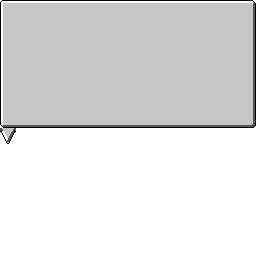
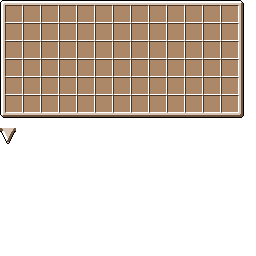
Worked on the content tip renderer and the associated graphic.

diff --git a/src/minecraft/ml/boxes/client/ContentTipHandler.java b/src/minecraft/ml/boxes/client/ContentTipHandler.java
@@ -2,8 +2,10 @@ package ml.boxes.client;
 
 import java.util.EnumSet;
 
+import ml.boxes.BoxData;
 import ml.boxes.Boxes;
 import ml.boxes.Lib;
+import ml.boxes.Lib.XYPair;
 import ml.boxes.item.ItemBox;
 import net.minecraft.client.Minecraft;
 import net.minecraft.client.gui.ScaledResolution;
@@ -22,7 +24,7 @@ import cpw.mods.fml.relauncher.SideOnly;
 @SideOnly(Side.CLIENT)
 public class ContentTipHandler implements ITickHandler {
 	
-	public ContentTip currentTip;
+	public static ContentTip currentTip;
 	
 	@Override
 	public void tickStart(EnumSet<TickType> type, Object... tickData) {
@@ -33,11 +35,14 @@ public class ContentTipHandler implements ITickHandler {
 	@Override
 	public void tickEnd(EnumSet<TickType> type, Object... tickData) {
 		if (type.contains(TickType.RENDER)){
-			renderContentTip();
+			renderContentTip((Float)tickData[0]);
+		}else if (type.contains(TickType.CLIENT)){
+			updateCurrentTip();
 		}
 	}
 	
-	private void renderContentTip(){
+	// Do calculations for the tip
+	private void updateCurrentTip(){
 		Minecraft mc = FMLClientHandler.instance().getClient();
 		if (mc.currentScreen instanceof GuiContainer){
 			GuiContainer asGuiContainer = (GuiContainer)mc.currentScreen;
@@ -50,37 +55,53 @@ public class ContentTipHandler implements ITickHandler {
             int var15 = var13.getScaledHeight();
             int adjMouseX = Mouse.getX() * var14 / mc.displayWidth;
             int adjMouseY = var15 - Mouse.getY() * var15 / mc.displayHeight - 1;
-            
+
             int guiLeft = (asGuiContainer.width - guiXSize) / 2;
             int guiTop = (asGuiContainer.height - guiYSize) / 2;
-            
+
             if (currentTip == null || !currentTip.StillValid(adjMouseX, adjMouseY)){
             	currentTip = null;
-                for (Object slt : asGuiContainer.inventorySlots.inventorySlots){
-                	Slot asSlot = (Slot)slt;
-                	if (!asSlot.getHasStack() ||
-                			!(asSlot.getStack().getItem() instanceof ItemBox) ||
-                			!Lib.pointInRect(adjMouseX-guiLeft, adjMouseY-guiTop, asSlot.xDisplayPosition, asSlot.yDisplayPosition, 16, 16) || 
-                			(asGuiContainer instanceof GuiBox && false) || // TODO Make sure the tip will not be for the open box
-                			(Boxes.shiftForTip && !asGuiContainer.isShiftKeyDown())
-                			)
-                		continue;
-                	// TODO Create a new ContentTip
-                }
+            	for (Object slt : asGuiContainer.inventorySlots.inventorySlots){
+            		Slot asSlot = (Slot)slt;
+            		if (!asSlot.getHasStack() ||
+            				!(asSlot.getStack().getItem() instanceof ItemBox) ||
+            				!Lib.pointInRect(adjMouseX-guiLeft, adjMouseY-guiTop, asSlot.xDisplayPosition, asSlot.yDisplayPosition, 16, 16) || 
+            				(asGuiContainer instanceof GuiBox && false) || // TODO Make sure the tip will not be for the open box
+            				(Boxes.shiftForTip && !asGuiContainer.isShiftKeyDown())
+            				)
+            			continue;
+            		currentTip = new ContentTip(asGuiContainer, asSlot, guiXSize, guiYSize, guiTop, guiLeft);
+            	}
             }
-            if (currentTip!= null)
-            	currentTip.tick(adjMouseX, adjMouseY);
+            if (currentTip != null)
+            	currentTip.tick(mc, adjMouseX, adjMouseY);
 		}
 	}
+	
+	//Render the tip
+	private void renderContentTip(float tickTime){
+		Minecraft mc = FMLClientHandler.instance().getClient();
+		if (mc.currentScreen instanceof GuiContainer){
+			
+			ScaledResolution var13 = new ScaledResolution(mc.gameSettings, mc.displayWidth, mc.displayHeight);
+            int var14 = var13.getScaledWidth();
+            int var15 = var13.getScaledHeight();
+            int adjMouseX = Mouse.getX() * var14 / mc.displayWidth;
+            int adjMouseY = var15 - Mouse.getY() * var15 / mc.displayHeight - 1;
 
+            if (currentTip!= null)
+            	currentTip.doRender(mc, adjMouseX, adjMouseY, tickTime);
+		}
+	}
+	
 	@Override
 	public EnumSet<TickType> ticks() {
-		return EnumSet.of(TickType.RENDER);
+		return EnumSet.of(TickType.RENDER, TickType.CLIENT);
 	}
 
 	@Override
 	public String getLabel() {
-		return "BoxesContentTipRenderer";
+		return "Boxes";
 	}
 
 }

diff --git a/src/minecraft/ml/boxes/client/ContentTip.java b/src/minecraft/ml/boxes/client/ContentTip.java
@@ -1,36 +1,115 @@
 package ml.boxes.client;
 
+import org.lwjgl.opengl.GL11;
+
+import ml.boxes.BoxData;
 import ml.boxes.Boxes;
 import ml.boxes.Lib;
+import ml.boxes.Lib.XYPair;
+import ml.boxes.item.ItemBox;
+import net.minecraft.client.Minecraft;
 import net.minecraft.client.gui.Gui;
 import net.minecraft.client.gui.inventory.GuiContainer;
+import net.minecraft.client.renderer.RenderEngine;
+import net.minecraft.client.renderer.entity.RenderItem;
 import net.minecraft.inventory.Slot;
+import net.minecraft.item.ItemStack;
 import cpw.mods.fml.relauncher.Side;
 import cpw.mods.fml.relauncher.SideOnly;
 
 @SideOnly(Side.CLIENT)
 public class ContentTip extends Gui {
+	
+	public RenderItem itemRenderer = new RenderItem();
+	
+	public final GuiContainer gui;
+	public final Slot slot;
+	public final BoxData box;
+	public final int guiWidth;
+	public final int guiHeight;
+	public final int guiTop;
+	public final int guiLeft;
 
-	public Slot slot;
+	private XYPair position = new XYPair(0, 0);
+	private XYPair currentSize = new XYPair(0, 0);
+	private XYPair gridSize = new XYPair(0,0);
+	private int slotSize = 16;
 	
-	public GuiContainer gui;
-	public int guiWidth;
-	public int guiHeight;
-	public int guiTop;
-	public int guiLeft;
+	public ContentTip(GuiContainer gui, Slot slot, int gWidth, int gHeight, int gTop, int gLeft) {
+		this.gui = gui;
+		this.slot = slot;
+		this.box = ItemBox.getDataFromIS(slot.getStack());
+		this.guiWidth = gWidth;
+		this.guiHeight = gHeight;
+		this.guiTop = gTop;
+		this.guiLeft = gLeft;
+	}
 	
-	private void render(){
+	private void drawStackAt(RenderEngine re, int x, int y, ItemStack is){
+		GL11.glEnable(GL11.GL_DEPTH_TEST);
+        itemRenderer.renderItemAndEffectIntoGUI(gui.fontRenderer, re, is, x, y);
+        itemRenderer.renderItemOverlayIntoGUI(gui.fontRenderer, re, is, x, y);
+	}
+	
+	private int getSlotAt(int x, int y){
+		int ax = x - position.X-5;
+		int ay = y-position.Y-5;
+		return (int)Math.floor(ax/18) + (int)Math.floor(ay/18)*gridSize.X;
+	}
+	
+	public void doRender(Minecraft mc, int mX, int mY, float tickTime){
+		RenderEngine re = mc.renderEngine;
+		
+		re.bindTexture(re.getTexture("/ml/boxes/gfx/contentTip.png"));
+		drawTexturedModalRect(position.X, position.Y, 0, 0, currentSize.X-5, currentSize.Y-5);
+		drawTexturedModalRect(position.X+5, position.Y, 128-(currentSize.X-5), 0, currentSize.X-5, currentSize.Y-5);
+		drawTexturedModalRect(position.X+5, position.Y+5, 128-(currentSize.X-5), 64-(currentSize.Y-5), currentSize.X-5, currentSize.Y-5);
+		drawTexturedModalRect(position.X, position.Y+5, 0, 64-(currentSize.X-5), currentSize.X-5, currentSize.Y-5);
+		
+//		for (int i=0; i<elementCount; i++){
+//			
+//		}
+	}
+	
+	public void tick(Minecraft mc, int mX, int mY){
+		int elementCount = interactable(mX, mY) ? box.getSizeInventory() : box.getContainedItemStacks().size();
+		XYPair targetGrid = Lib.determineBestGrid(elementCount);
+		
+		int targX = targetGrid.X*(slotSize+2) +10;
+		int targY = targetGrid.Y*(slotSize+2) +10;
+		
+		if (targX > currentSize.X){
+			currentSize.X += 4;
+			if (targX < currentSize.X)
+				currentSize.X = targX;
+		} else if (targX < currentSize.X) {
+			currentSize.X -= 4;
+			if (targX > currentSize.X)
+				currentSize.X = targX;
+		}
+		
+		if (targY > currentSize.Y){
+			currentSize.Y += 4;
+			if (targY < currentSize.Y)
+				currentSize.Y = targY;
+		} else if (targY < currentSize.Y) {
+			currentSize.Y -= 4;
+			if (targY > currentSize.Y)
+				currentSize.Y = targY;
+		}
+		
+		position.X = guiLeft + slot.xDisplayPosition + (slotSize-currentSize.X)/2;
+		position.Y = guiTop + slot.yDisplayPosition - currentSize.Y;
 		
 	}
 	
-	public void tick(int mX, int mY){
-		
-		render();
+	private boolean interactable(int mouseX, int mouseY){
+		return (Boxes.neiInstalled && gui.isShiftKeyDown() && true); // TODO Add pointInRect for whole tip
 	}
 	
 	public boolean StillValid(int mX, int mY){
-		return (Lib.pointInRect(mX, mY, slot.xDisplayPosition, slot.yDisplayPosition, 16, 16) || 
-				(Boxes.neiInstalled && gui.isShiftKeyDown() && true) // TODO Add pointInRect for whole tip
+		return (Lib.pointInRect(mX-guiLeft, mY-guiTop, slot.xDisplayPosition, slot.yDisplayPosition, 16, 16) || 
+				interactable(mX, mY)
 				);
 	}
 }

diff --git a/src/minecraft/ml/boxes/Lib.java b/src/minecraft/ml/boxes/Lib.java
@@ -14,4 +14,38 @@ public class Lib {
 	public static Boolean pointInRect(int pntX, int pntY, int rectX, int rectY, int rectW, int rectH){
 		return (pntX >= rectX && pntY >= rectY && pntX <= rectX+rectW && pntY <= rectY + rectH);
 	}
+	
+	public static boolean pointInRect(int pntX, int pntY, rectangle r){
+		return pointInRect(pntX, pntY, r.xCoord, r.yCoord, r.width, r.height);
+	}
+	
+	public static XYPair determineBestGrid(int elements){
+		int a = (int)Math.round(Math.sqrt(elements));
+		int b = (int)Math.ceil(elements/a);
+		return a>b ? new XYPair(a, b) : new XYPair(b, a);
+	}
+	
+	public static class rectangle {
+		public int xCoord;
+		public int yCoord;
+		public int width;
+		public int height;
+		
+		public rectangle(int x, int y, int width, int height) {
+			this.xCoord = x;
+			this.yCoord = y;
+			this.width = width;
+			this.height = height;
+		}
+	}
+	
+	public static class XYPair {
+		public int X;
+		public int Y;
+		
+		public XYPair(int x, int y) {
+			this.X = x;
+			this.Y = y;
+		}
+	}
 }

diff --git a/src/minecraft/ml/boxes/BoxData.java b/src/minecraft/ml/boxes/BoxData.java
@@ -1,5 +1,8 @@
 package ml.boxes;
 
+import java.util.ArrayList;
+import java.util.List;
+
 import net.minecraft.entity.player.EntityPlayer;
 import net.minecraft.inventory.IInventory;
 import net.minecraft.item.ItemStack;
@@ -68,7 +71,16 @@ public class BoxData implements IInventory {
 //		nameBuild += LanguageRegistry.instance().getStringLocalization("item.box.name", "en_US");
 //		return nameBuild;
 //	}
-		
+	
+	public List<ItemStack> getContainedItemStacks(){
+		List<ItemStack> iStacks = new ArrayList<ItemStack>();
+		for (int i=0; i<getSizeInventory(); i++){
+			if (inventory[i] != null)
+				iStacks.add(inventory[i]);
+		}
+		return iStacks;
+	}
+			
 	@Override
 	public int getSizeInventory() {
 		// TODO Auto-generated method stub

diff --git a/src/minecraft/ml/boxes/ServerPacketHandler.java b/src/minecraft/ml/boxes/ServerPacketHandler.java
@@ -1,7 +1,12 @@
 package ml.boxes;
 
+import java.io.ByteArrayInputStream;
 import java.io.ByteArrayOutputStream;
+import java.io.DataInputStream;
 import java.io.DataOutputStream;
+
+import com.google.common.io.ByteArrayDataInput;
+import com.google.common.io.ByteStreams;
 
 import net.minecraft.entity.player.EntityPlayer;
 import net.minecraft.entity.player.EntityPlayerMP;
@@ -15,7 +20,9 @@ public class ServerPacketHandler implements IPacketHandler {
 	@Override
 	public void onPacketData(INetworkManager manager,
 			Packet250CustomPayload packet, Player player) {
-		// TODO Auto-generated method stub
+		
+		ByteArrayDataInput data = ByteStreams.newDataInput(packet.data);
+		
 		
 	}
 	
